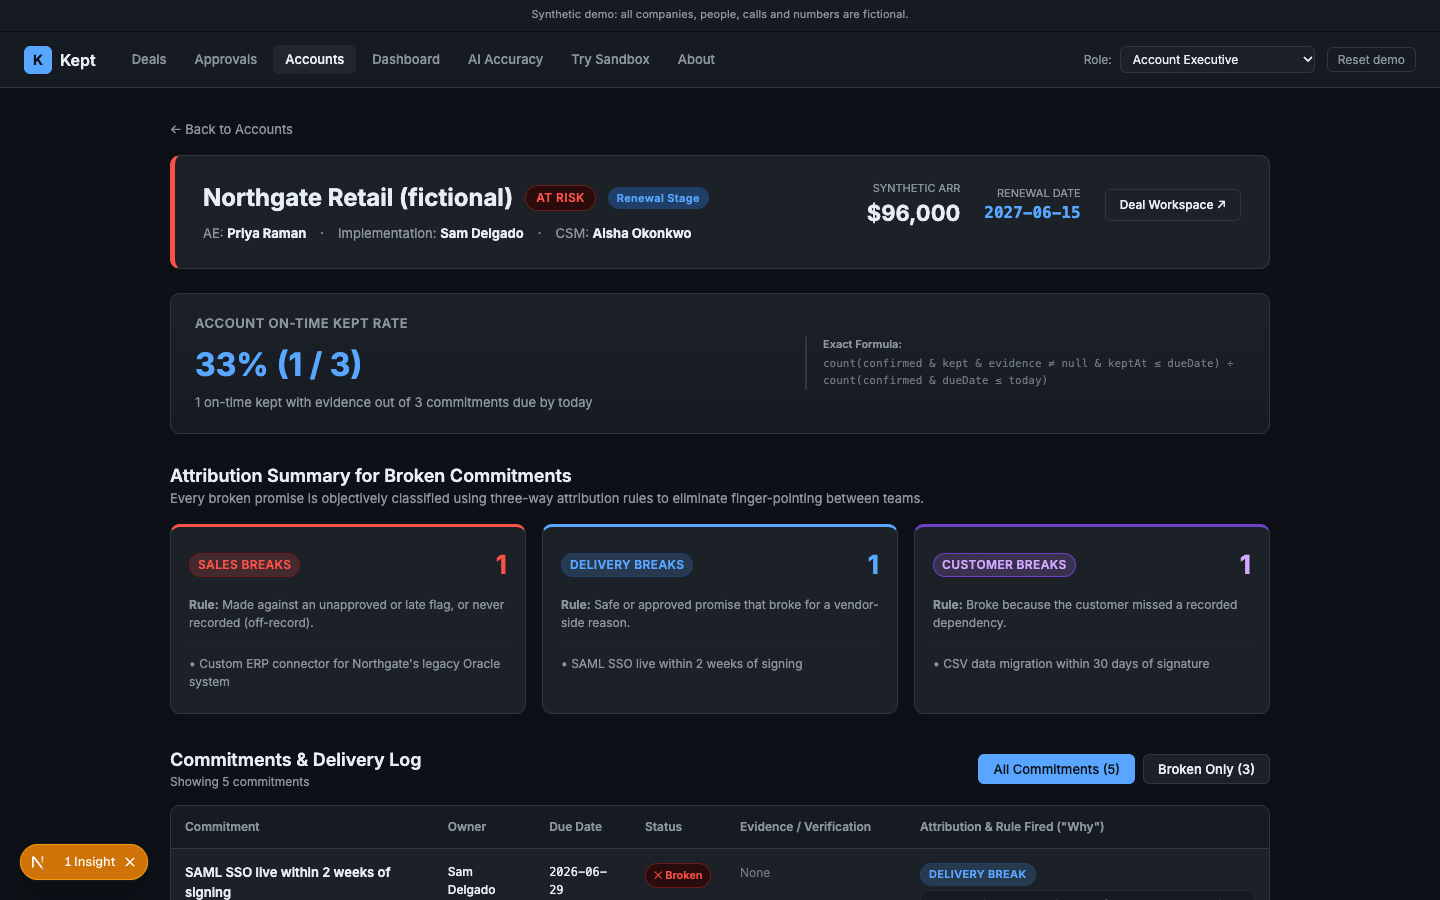
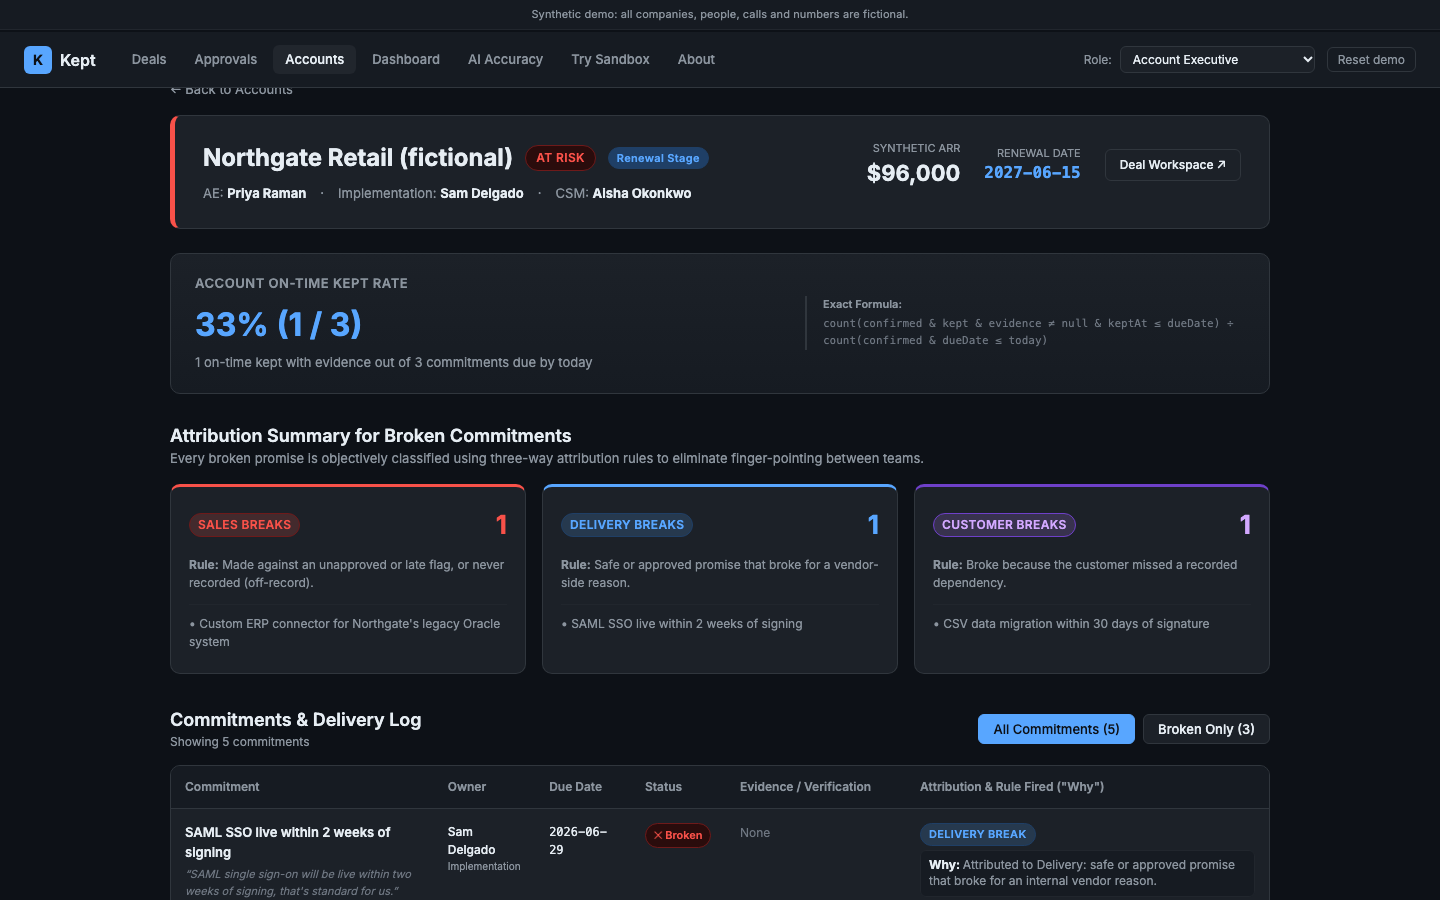
chore: capture updated deck screenshots at 1440x900 from production

diff --git a/scripts/take-screenshots.ts b/scripts/take-screenshots.ts
@@ -1,12 +1,36 @@
-import puppeteer from "puppeteer";
+import puppeteer, { Page } from "puppeteer";
 import * as fs from "node:fs";
 import * as path from "node:path";
 
+const BASE_URL = process.env.BASE_URL || "https://8th-element-prototype.vercel.app";
+const ARTIFACTS_DIR = "/Users/eslavathyaswanthvenkatasai/.gemini/antigravity-ide/brain/aa4229a5-a067-4463-b0f2-80dcce03e4e8";
+
+async function resetDemoState(page: Page) {
+  // Clear local storage and reload page to restore clean seed state
+  await page.evaluate(() => {
+    localStorage.clear();
+  });
+  await page.reload({ waitUntil: "networkidle0" });
+  await new Promise((r) => setTimeout(r, 600));
+}
+
+async function setRole(page: Page, role: "ae" | "implementation" | "csm" | "vp_cs") {
+  await page.evaluate((targetRole) => {
+    const select = document.getElementById("role-switcher") as HTMLSelectElement | null;
+    if (select) {
+      select.value = targetRole;
+      select.dispatchEvent(new Event("change", { bubbles: true }));
+    }
+  }, role);
+  await new Promise((r) => setTimeout(r, 400));
+}
+
 async function main() {
+  console.log(`Launching Puppeteer against ${BASE_URL}...`);
   const browser = await puppeteer.launch({
     headless: true,
     executablePath: "/Applications/Google Chrome.app/Contents/MacOS/Google Chrome",
-    args: ["--no-sandbox", "--disable-setuid-sandbox"],
+    args: ["--no-sandbox", "--disable-setuid-sandbox", "--disable-gpu"],
     defaultViewport: {
       width: 1440,
       height: 900,
@@ -24,106 +48,200 @@ async function main() {
 
   fs.mkdirSync(outDirKept, { recursive: true });
   fs.mkdirSync(outDirRoot, { recursive: true });
+  fs.mkdirSync(ARTIFACTS_DIR, { recursive: true });
 
   const saveScreenshot = async (filename: string) => {
     const p1 = path.join(outDirKept, filename);
     const p2 = path.join(outDirRoot, filename);
+    const p3 = path.join(ARTIFACTS_DIR, filename);
+
     await page.screenshot({ path: p1, fullPage: false });
     fs.copyFileSync(p1, p2);
-    console.log(`Saved screenshot: ${filename} (${fs.statSync(p1).size} bytes)`);
+    fs.copyFileSync(p1, p3);
+    console.log(`✓ Saved ${filename} (${fs.statSync(p1).size} bytes)`);
   };
 
   try {
-    console.log("Navigating to Harbor deal page...");
-    await page.goto("http://localhost:3000/deals/d_harbor", { waitUntil: "networkidle0" });
+    // =========================================================================
+    // 1. Screenshot 01_harbor_capture.png
+    // "open Harbor, go to the Capture tab, and choose Find commitments.
+    // Include the transcript and the candidate list, with the red custom ERP card visible."
+    // =========================================================================
+    console.log("\n--- Capturing 01_harbor_capture.png ---");
+    await page.goto(`${BASE_URL}/deals/d_harbor`, { waitUntil: "networkidle0" });
+    await resetDemoState(page);
+    await setRole(page, "ae");
 
-    // Ensure AE role is selected in header
-    await page.evaluate(() => {
-      const select = document.querySelector("select") as HTMLSelectElement | null;
-      if (select && select.value !== "ae") {
-        select.value = "ae";
-        select.dispatchEvent(new Event("change", { bubbles: true }));
-      }
-    });
-
-    // 1. Screenshot 1: Harbor Capture with line highlight
-    console.log("1. Setting up Harbor Capture tab...");
-    await new Promise((r) => setTimeout(r, 1000));
-
-    // Find and click "⚡ Find commitments" button
-    await page.evaluate(() => {
+    // Click "⚡ Find commitments"
+    console.log("Clicking 'Find commitments' on Harbor Call 1...");
+    const clickedFind = await page.evaluate(() => {
       const btns = Array.from(document.querySelectorAll("button"));
-      const findBtn = btns.find((b) => b.textContent?.includes("Find commitments"));
-      if (findBtn) findBtn.click();
+      const btn = btns.find((b) => b.textContent?.includes("Find commitments"));
+      if (btn) {
+        btn.click();
+        return true;
+      }
+      return false;
     });
+    if (!clickedFind) throw new Error("Could not find 'Find commitments' button");
+
+    // Wait for candidates to load
+    await page.waitForSelector(".candidate-card", { timeout: 10000 });
     await new Promise((r) => setTimeout(r, 1500));
 
-    // Click on a red card
+    // Find and click the red custom ERP candidate card
+    console.log("Clicking red custom ERP card...");
     await page.evaluate(() => {
-      const cards = Array.from(document.querySelectorAll(".card"));
-      const redCard = cards.find((c) => c.querySelector(".badge-red") !== null) as HTMLElement | null;
+      const cards = Array.from(document.querySelectorAll(".candidate-card"));
+      const redCard = cards.find((c) => {
+        const text = c.textContent || "";
+        return text.includes("custom ERP") || c.querySelector(".badge-red") !== null;
+      }) as HTMLElement | null;
       if (redCard) {
         redCard.click();
       }
     });
-    await new Promise((r) => setTimeout(r, 1000));
+    await new Promise((r) => setTimeout(r, 1200));
 
     await saveScreenshot("01_harbor_capture.png");
 
-    // 2. Screenshot 2: Harbor Move to Contract Blocker Panel
-    console.log("2. Setting up Harbor Stage tab contract gate blocker...");
-    // Click "Stage" tab
+    // =========================================================================
+    // 2. Screenshot 02_harbor_contract_block.png
+    // "reset, then open Harbor and run Find commitments on the first call first.
+    // Without that, the screen shows the new “No commitments found” message instead of the flags.
+    // Then open the Stage tab. The blockers list is already showing, so no click is needed."
+    // =========================================================================
+    console.log("\n--- Capturing 02_harbor_contract_block.png ---");
+    await page.goto(`${BASE_URL}/deals/d_harbor`, { waitUntil: "networkidle0" });
+    await resetDemoState(page);
+    await setRole(page, "ae");
+
+    // Run Find commitments on first call
+    console.log("Running Find commitments on first call...");
+    await page.evaluate(() => {
+      const btns = Array.from(document.querySelectorAll("button"));
+      const btn = btns.find((b) => b.textContent?.includes("Find commitments"));
+      if (btn) btn.click();
+    });
+    await page.waitForSelector(".candidate-card", { timeout: 10000 });
+    await new Promise((r) => setTimeout(r, 1500));
+
+    // Open the Stage tab
+    console.log("Opening Stage tab...");
     await page.evaluate(() => {
       const tabs = Array.from(document.querySelectorAll(".deal-tab"));
       const stageTab = tabs.find((t) => t.textContent?.toLowerCase().includes("stage")) as HTMLElement | null;
       if (stageTab) stageTab.click();
     });
-    await new Promise((r) => setTimeout(r, 600));
+    await page.waitForSelector(".blocker-panel", { timeout: 5000 });
+    await new Promise((r) => setTimeout(r, 1000));
 
-    // Blocker panel is already visible or click move button
     await saveScreenshot("02_harbor_contract_block.png");
 
-    // 3. Screenshot 3: Closed-Won Gate Blocker
-    console.log("3. Setting up Closed-Won gate blocker panel...");
+    // =========================================================================
+    // 3. Screenshot 03_harbor_closed_won_block.png
+    // "Extract only the first call.
+    // As Implementation Lead, approve every flag, with a note on the red one.
+    // As Account Executive, move to Contract.
+    // Open Stage. The Closed-Won blockers should show only “not yet confirmed” and “no owner”."
+    // =========================================================================
+    console.log("\n--- Capturing 03_harbor_closed_won_block.png ---");
+    await page.goto(`${BASE_URL}/deals/d_harbor`, { waitUntil: "networkidle0" });
+    await resetDemoState(page);
+    await setRole(page, "ae");
+
+    // Extract only first call
+    console.log("Extracting only first call...");
     await page.evaluate(() => {
-      // Set Harbor deal stage directly to "contract" in store to view the Closed-Won gate blockers
+      const btns = Array.from(document.querySelectorAll("button"));
+      const btn = btns.find((b) => b.textContent?.includes("Find commitments"));
+      if (btn) btn.click();
+    });
+    await page.waitForSelector(".candidate-card", { timeout: 10000 });
+    await new Promise((r) => setTimeout(r, 1500));
+
+    // As Implementation Lead, approve every flag with a note on the red one
+    console.log("Switching to Implementation Lead and approving all flags in store...");
+    await setRole(page, "implementation");
+
+    // We can approve directly via the store state in localStorage
+    await page.evaluate(() => {
       const raw = localStorage.getItem("kept-demo-v1");
-      if (raw) {
-        const parsed = JSON.parse(raw);
-        if (parsed?.state?.deals) {
-          const harbor = parsed.state.deals.find((d: any) => d.id === "d_harbor");
-          if (harbor) {
-            harbor.stage = "contract";
-            localStorage.setItem("kept-demo-v1", JSON.stringify(parsed));
+      if (!raw) return;
+      const data = JSON.parse(raw);
+      if (data?.state?.commitments) {
+        data.state.commitments.forEach((c: any) => {
+          if (c.flag === "red") {
+            c.approval = "approved";
+            c.approvalNote = "Approved exception: custom adapter budgeted in Q4 for strategic account";
+          } else if (c.flag === "amber") {
+            c.approval = "approved";
+            c.approvalNote = "Approved standard exception";
           }
-        }
+        });
+        localStorage.setItem("kept-demo-v1", JSON.stringify(data));
       }
     });
-    // Reload page to rehydrate with stage = contract
-    await page.goto("http://localhost:3000/deals/d_harbor", { waitUntil: "networkidle0" });
-    // Go to Stage tab
+
+    // Switch role back to Account Executive
+    console.log("Switching back to AE role and reloading Harbor deal...");
+    await page.goto(`${BASE_URL}/deals/d_harbor`, { waitUntil: "networkidle0" });
+    await setRole(page, "ae");
+
+    // Open Stage tab
+    console.log("Opening Stage tab...");
     await page.evaluate(() => {
       const tabs = Array.from(document.querySelectorAll(".deal-tab"));
       const stageTab = tabs.find((t) => t.textContent?.toLowerCase().includes("stage")) as HTMLElement | null;
       if (stageTab) stageTab.click();
     });
-    await new Promise((r) => setTimeout(r, 600));
+    await new Promise((r) => setTimeout(r, 1000));
+
+    // Click "Move to Contract →"
+    console.log("Clicking 'Move to Contract →'...");
+    await page.evaluate(() => {
+      const btns = Array.from(document.querySelectorAll("button"));
+      const moveBtn = btns.find((b) => b.textContent?.includes("Move to Contract"));
+      if (moveBtn) moveBtn.click();
+    });
+    await new Promise((r) => setTimeout(r, 1200));
+
+    // Ensure Stage tab is visible and displays Closed-Won blockers
+    await page.waitForSelector(".blocker-panel", { timeout: 5000 });
+    await new Promise((r) => setTimeout(r, 800));
 
     await saveScreenshot("03_harbor_closed_won_block.png");
 
-    // 4. Screenshot 4: Northgate 1 / 1 / 1 Attribution Summary
-    console.log("4. Capturing Northgate 1 / 1 / 1 attribution...");
-    await page.goto("http://localhost:3000/accounts/d_northgate", { waitUntil: "networkidle0" });
+    // =========================================================================
+    // 4. Screenshot 04_northgate_attribution.png
+    // "open the Northgate account page with the at-risk header, kept-rate panel
+    // and the three attribution cards in view."
+    // =========================================================================
+    console.log("\n--- Capturing 04_northgate_attribution.png ---");
+    await page.goto(`${BASE_URL}/accounts/a_northgate`, { waitUntil: "networkidle0" });
+    await resetDemoState(page);
     await new Promise((r) => setTimeout(r, 1000));
+
+    // Adjust scroll slightly if needed to perfectly fit header, kept rate card, and attribution summary
+    await page.evaluate(() => {
+      window.scrollTo(0, 40);
+    });
+    await new Promise((r) => setTimeout(r, 600));
+
     await saveScreenshot("04_northgate_attribution.png");
 
-    // 5. Screenshot 5: AI Accuracy Score Panel
-    console.log("5. Capturing AI accuracy eval panel...");
-    await page.goto("http://localhost:3000/eval", { waitUntil: "networkidle0" });
+    // =========================================================================
+    // 5. Screenshot 05_eval_accuracy_panel.png
+    // "open the AI Accuracy page with the latest test run and the five metric cards in view."
+    // =========================================================================
+    console.log("\n--- Capturing 05_eval_accuracy_panel.png ---");
+    await page.goto(`${BASE_URL}/eval`, { waitUntil: "networkidle0" });
+    await resetDemoState(page);
     await new Promise((r) => setTimeout(r, 1000));
+
     await saveScreenshot("05_eval_accuracy_panel.png");
 
-    console.log("All 5 deck screenshots successfully captured at 1440x900!");
+    console.log("\n🎉 All 5 screenshots captured successfully at 1440x900!");
   } finally {
     await browser.close();
   }
